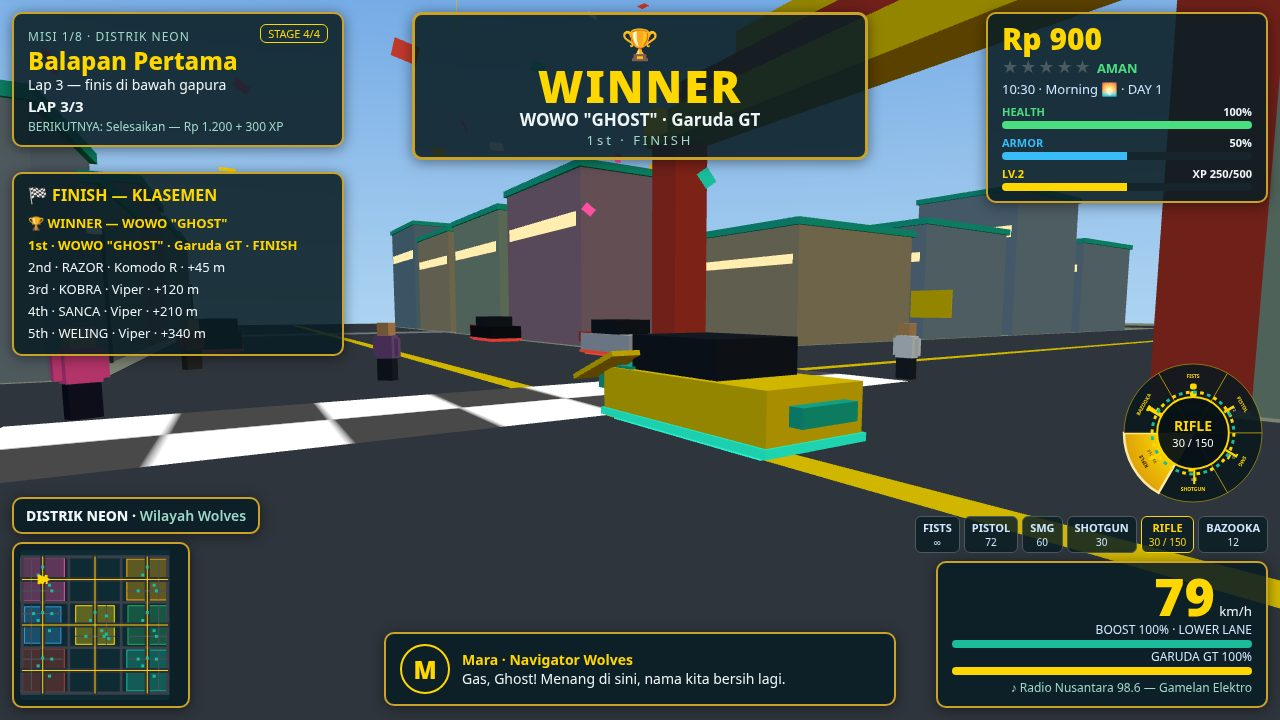
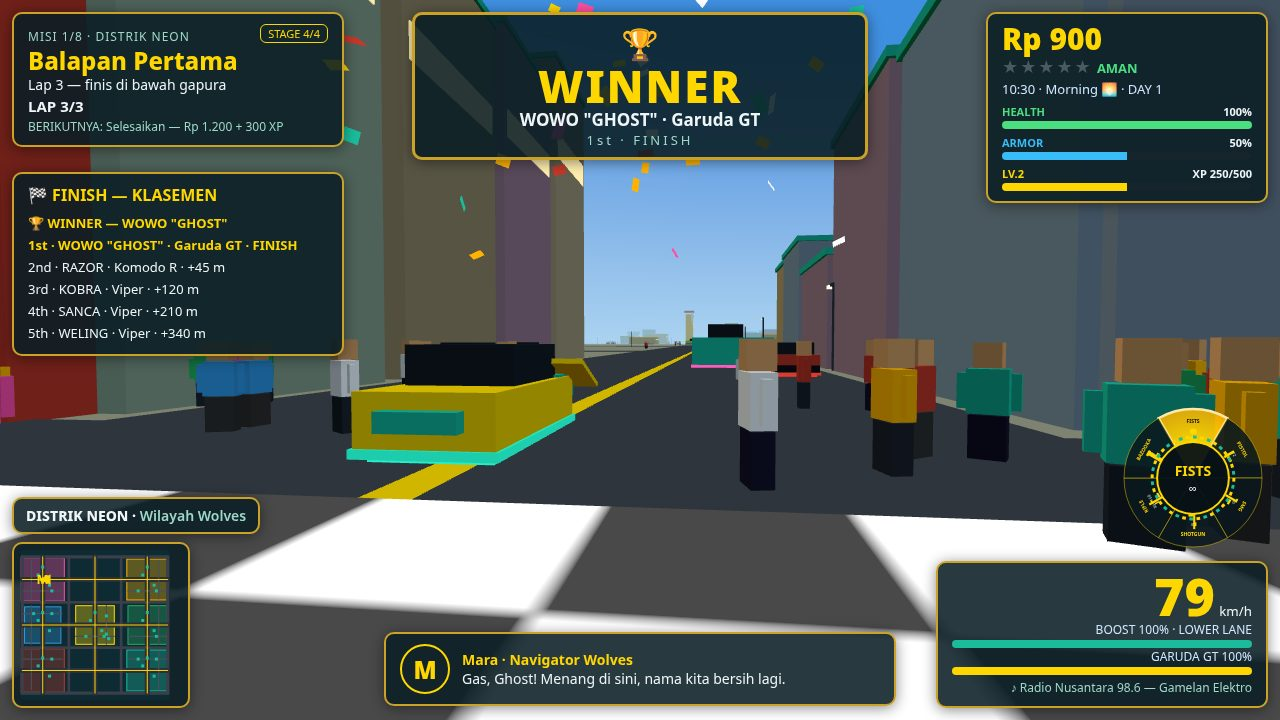
Fix shot 1 + 2 + title (recording 01a1fd0e)
Shot 1: front 3/4 close camera (hero big), crowd to sidewalks so the car stays visible, weapon strip hidden while driving, FISTS in the mini wheel.
Shot 2: close-quarters FPS gang war, big emissive gold rifle viewmodel angled barrel-to-crosshair, TARGET 13 m, thin 1px tracer kept.
Title: Wowo standing prominent on the right.
Shots 3 + 4 untouched.

diff --git a/game/src/shots.js b/game/src/shots.js
@@ -86,38 +86,70 @@ export function stageShot(name, ctx) {
     ctx.missions.standings = SF;
     ctx.player.inCar = true;
     ctx.player.mesh.visible = false;
+    // Face the hero WEST toward the camera (front 3/4, like the sealed shot):
+    // the car has just crossed the finish line and the Spire skyline sits
+    // behind it to the east. Heading follows the facing so the speedo stays 79.
     const car = ctx.vehicles.hero;
-    car.position.set(-222, 0, -200); car.rotation.y = 0;
-    ctx.driving.heading = 0; ctx.driving.speed = 79 / 3.2;
+    car.position.set(-222, 0, -200); car.rotation.y = Math.PI;
+    ctx.driving.heading = Math.PI; ctx.driving.speed = 79 / 3.2;
     const komodo = ctx.vehicles.komodo;
-    komodo.position.set(-238, 0, -208); komodo.rotation.y = 0;
+    komodo.position.set(-204, 0, -208); komodo.rotation.y = Math.PI;
     finishLine(ctx, -228, -200);
-    confetti(ctx, -222, -200);
+    confetti(ctx, -224, -200, 200);
+    confetti(ctx, -232, -198, 80);
+    // Crowd: dense on the sidewalks flanking the road (NOT on the road centre,
+    // so the hero stays visible) + along both road sides near the car.
+    ctx.traffic.addCrowd(-222, -190, 8, 4);
+    ctx.traffic.addCrowd(-222, -210, 8, 4);
+    ctx.traffic.addCrowd(-218, -192, 8, 6);
+    ctx.traffic.addCrowd(-218, -208, 8, 6);
     ctx.traffic.addCrowd(-206, -214, 8, 12);
-    ctx.traffic.addCrowd(-238, -186, 8, 12);
     const flagman = A.makePerson(0xf5f5f5, 0x222831);
     flagman.position.set(-226, 0, -212); ctx.scene.add(flagman);
     const flag = A.box(1.4, 0.9, 0.05, 0xffd700, -225.2, 2.6, -212);
     ctx.scene.add(flag);
-    ctx.traffic.addCar('taxi', -252, -192, 0);
-    ctx.traffic.addCar('angkot', -255, -208, 0);
-    ctx.shotCam = { pos: [-214, 2.4, -193], look: [-226, 1.2, -201] };
+    ctx.traffic.addCar('taxi', -200, -192, 0);
+    ctx.traffic.addCar('angkot', -196, -208, 0);
+    // Low, close front 3/4 from the south-west (~10 units out): finish line
+    // in the foreground, hero big near centre, eastern skyline behind.
+    ctx.shotCam = { pos: [-232, 2.0, -196], look: [-216, 1.5, -198] };
+    // Sealed shot has no weapon strip while driving; FISTS in the mini wheel.
+    ctx.wheel.select(0);
+    document.getElementById('weapon-strip').style.display = 'none';
   } else if (name === 'driveby') {
     ctx.missions.setMission(2, 1);
     // On foot ON the avenue (x=-230), facing north up Jl. Raya Barat toward
-    // the Gapura Neon — roads are clear of buildings, the gang war is ahead.
-    // Slight upward pitch so the avenue's tall rows sit below a strip of sky.
+    // the Gapura Neon — close-quarters gang war (like the sealed shot): the
+    // Vipers, allies and burning cars are 8-22 m ahead so the fight reads in
+    // the first 2 seconds. Player stays at -160 so TARGET reads 13 m to the
+    // stage-1 checkpoint (-230,-173), as in the sealed shot. Slight upward
+    // pitch so the avenue's tall rows sit below a strip of sky.
     setPlayerFoot(ctx, -230, -160, Math.PI / 2);
     ctx.player.pitch = 0.07;
-    ctx.combat.stageGangWar(-230, -180);
-    ctx.combat.spawnBurningCar('viper', -240, -195, 0.4);
-    ctx.combat.spawnBurningCar('taxi', -220, -205, -0.3);
-    ctx.combat.spawnBurningCar('angkot', -238, -215, 0.9);
-    ctx.combat.spawnBurningCar('viper', -224, -228, 1.2);
-    ctx.combat.spawnBurningCar('taxi', -236, -240, -0.8);
-    shellsOnGround(ctx, -230, -172);
-    ctx.traffic.addCrowd(-236, -170, 6, 14);
-    ctx.chaosAt = [-230, -172];
+    // 6 Vipers, close and spread across the avenue (manual spawn: stageGangWar
+    // stages them 25-35 m out, too far for this shot).
+    const vipers = [[-246, -174], [-238, -177], [-230, -172], [-222, -177], [-214, -174], [-206, -179]];
+    for (const [x, z] of vipers) ctx.combat.spawnEnemy('VIPER', x, z, 100);
+    ctx.combat.spawnAlly('Mara', A.makeMara, -244, -168);
+    ctx.combat.spawnAlly('Riko', A.makeRiko, -216, -168);
+    ctx.combat.spawnAlly('Kiko', A.makeKiko, -230, -170);
+    ctx.combat.spawnBurningCar('viper', -240, -178, 0.4);
+    ctx.combat.spawnBurningCar('taxi', -220, -180, -0.3);
+    ctx.combat.spawnBurningCar('angkot', -238, -190, 0.9);
+    ctx.combat.spawnBurningCar('viper', -224, -194, 1.2);
+    ctx.combat.spawnBurningCar('taxi', -236, -204, -0.8);
+    shellsOnGround(ctx, -230, -166);
+    ctx.traffic.addCrowd(-236, -166, 8, 10);
+    ctx.traffic.addCrowd(-224, -168, 8, 10);
+    ctx.chaosAt = [-230, -168];
+    // Big, bright gold rifle viewmodel (like the sealed shot): scale the
+    // viewmodel up, light it emissive, and angle the barrel up-left toward
+    // the crosshair (diagonal, butt at the bottom-right corner).
+    const vm = ctx.combat.viewmodel;
+    vm.scale.setScalar(0.75);
+    vm.position.set(0.58, -0.52, -1.1);
+    vm.rotation.set(0.51, 2.30, 0);
+    vm.children[0].material = A.mat(0xffd700, 0xffd700, 0.7);
     ctx.shotCam = null; // FPS camera from the player
   } else if (name === 'fps') {
     ctx.missions.setMission(2, 4);

diff --git a/game/src/main.js b/game/src/main.js
@@ -20,6 +20,7 @@ import { createPolice } from './police.js';
 import { createAudio } from './audio.js';
 import { createReplay } from './replay.js';
 import { drawBigMap } from './map.js';
+import { makeWowo } from './assets3d.js';
 import { stageShot } from './shots.js';
 
 const params = new URLSearchParams(window.location.search);
@@ -51,6 +52,13 @@ ctx.traffic = createTraffic(ctx);
 ctx.police = createPolice(ctx);
 ctx.replay = createReplay(ctx);
 buildCity(ctx);
+// Title Wowo: a big Wowo on the right of the title screen, attached to the
+// camera so he stays put while the title camera orbits the city.
+const titleWowo = makeWowo();
+titleWowo.scale.setScalar(2.5);
+titleWowo.position.set(5, -2, -10);
+titleWowo.visible = false;
+ctx.render.camera.add(titleWowo);
 ctx.progression.load();
 window.__ctx = ctx; // diagnostics hook (scene inspection from the console)
 
@@ -96,6 +104,7 @@ function startGame() {
   if (started) return;
   started = true;
   ctx.audio.unlock();
+  titleWowo.visible = false;
   $('title-screen').style.display = 'none';
   $('hud').style.display = 'block';
   ctx.player.inCar = true;
@@ -128,6 +137,7 @@ function frame(now) {
   if (!started && !shot) {
     const a = ctx.time * 0.04;
     ctx.render.place(-20 + Math.cos(a) * 175, 48, -20 + Math.sin(a) * 175, 35, 16, 35);
+    titleWowo.visible = true;
     ctx.traffic.update(dt, null);
     ctx.render.render();
     return;
